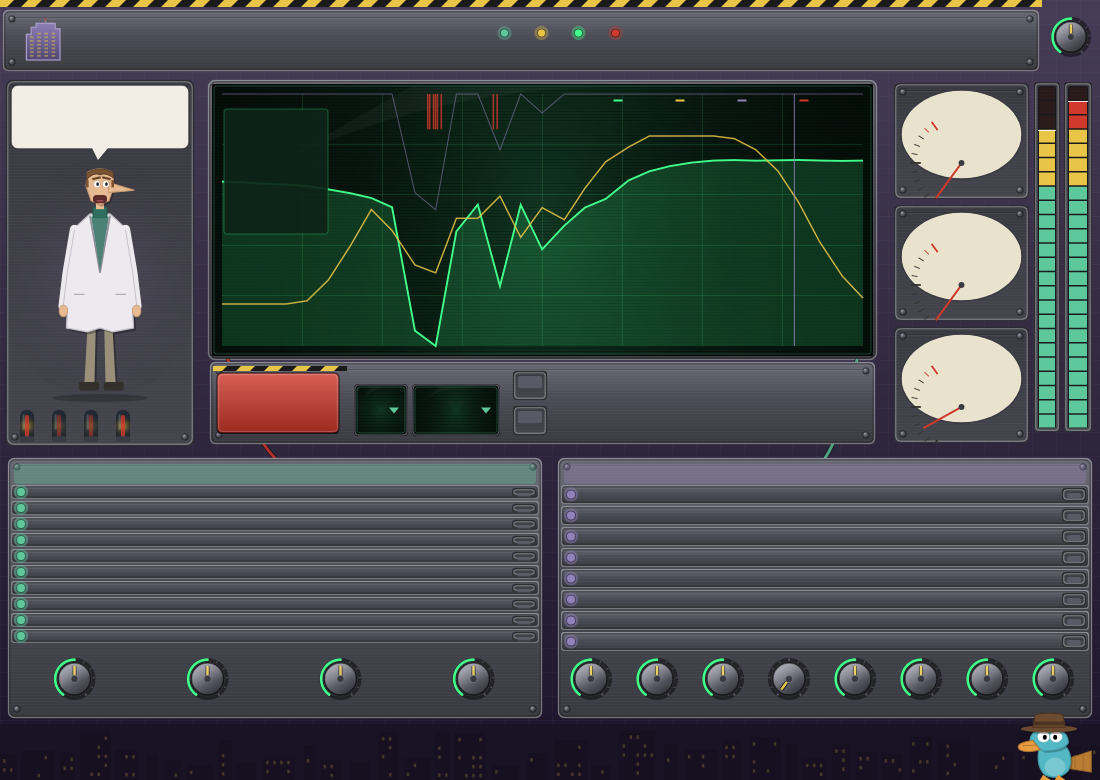
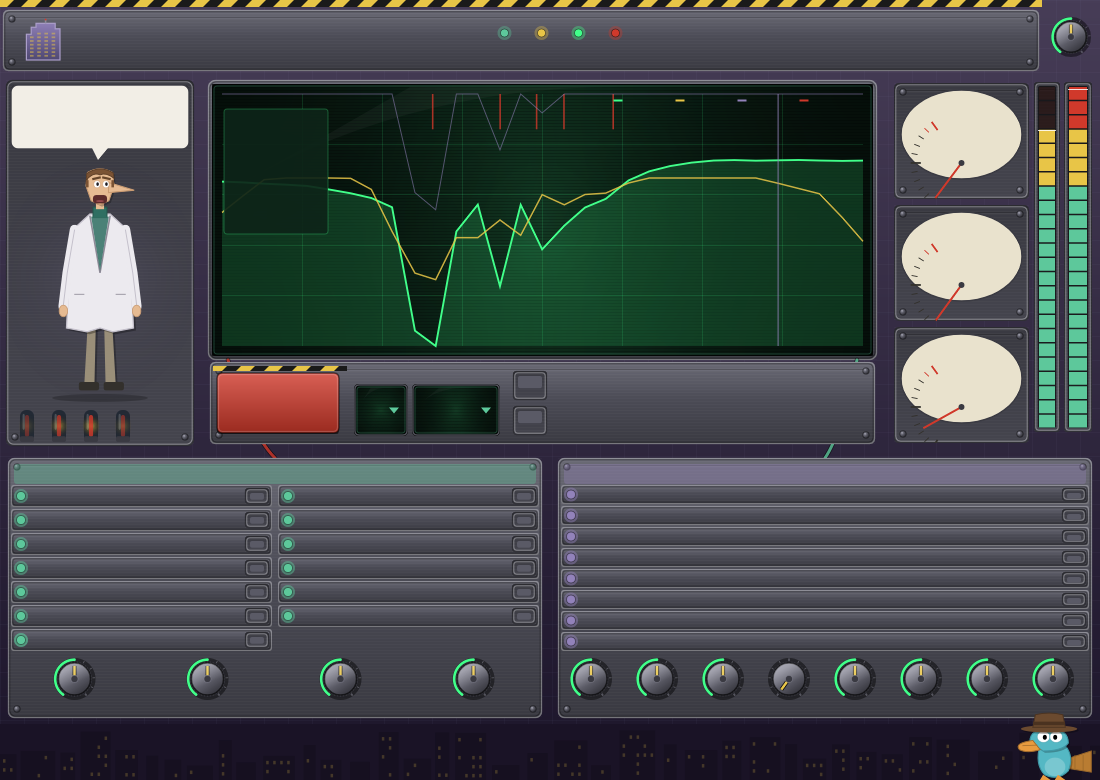
Two-column module rack, pointer-keyed activity lamps, v1.0.2 package
Thirteen cleanup modules no longer fit one column at a row height that
leaves room for the switch graphic, so a rack longer than nine entries
lays out in two.

The activity lamps were keyed by rack index, which meant inserting the
upward expander at position six silently moved the compressor's lamp
onto it and the de-esser's onto the surgical EQ. They hold pointers now,
and the upward expander gets its own.

Claude-Session: https://claude.ai/code/session_017txuhXmAwmafS4NN5xcFrV

diff --git a/Source/PluginEditor.cpp b/Source/PluginEditor.cpp
@@ -98,8 +98,8 @@ void ListenatorEditor::addTrim (TrimKnob& k, const char* paramId, const juce::St
     k.attach = std::make_unique<SliderAttach> (proc.getState(), paramId, k.slider);
 }
 
-void ListenatorEditor::addModule (juce::OwnedArray<ModuleStrip>& rack, const char* paramId,
-                                  const juce::String& name, juce::Colour accent)
+ModuleStrip* ListenatorEditor::addModule (juce::OwnedArray<ModuleStrip>& rack, const char* paramId,
+                                          const juce::String& name, juce::Colour accent)
 {
     auto* strip = new ModuleStrip (name, accent);
     rack.add (strip);
@@ -107,6 +107,7 @@ void ListenatorEditor::addModule (juce::OwnedArray<ModuleStrip>& rack, const cha
 
     moduleAttachments.add (new std::unique_ptr<ButtonAttach> (
         std::make_unique<ButtonAttach> (proc.getState(), paramId, strip->bypassButton)));
+    return strip;
 }
 
 void ListenatorEditor::buildRack()
@@ -117,10 +118,13 @@ void ListenatorEditor::buildRack()
     addModule (cleanupModules, pid::bpDeNoise,   "DE-NOISE",     mintGreen);
     addModule (cleanupModules, pid::bpDeVerb,    "DE-VERB",      mintGreen);
     addModule (cleanupModules, pid::bpGate,      "GATE",         mintGreen);
+    upwardStrip =
     addModule (cleanupModules, pid::bpUpward,    "UP-EXPANDER",  mintGreen);
     addModule (cleanupModules, pid::bpSurgical,  "SURGICAL EQ",  mintGreen);
     addModule (cleanupModules, pid::bpResonance, "RESONANCE",    mintGreen);
+    compStrip =
     addModule (cleanupModules, pid::bpComp,      "COMPRESSOR",   mintGreen);
+    deEssStrip =
     addModule (cleanupModules, pid::bpDeEss,     "DE-ESSER",     mintGreen);
     addModule (cleanupModules, pid::bpTone,      "TONE MATCH",   mintGreen);
     addModule (cleanupModules, pid::bpLimiter,   "LIMITER",      mintGreen);
@@ -153,12 +157,13 @@ void ListenatorEditor::timerCallback()
     pitchGauge.setValue (juce::jlimit (0.0f, 1.0f, hz / 800.0f),
                          hz > 1.0f ? juce::String ((int) hz) + " Hz" : "--");
 
-    // module activity lamps
-    if (! cleanupModules.isEmpty())
-    {
-        cleanupModules[6]->setActivity (juce::jlimit (0.0f, 1.0f, -gr / 12.0f));
-        cleanupModules[7]->setActivity (juce::jlimit (0.0f, 1.0f, -de / 8.0f));
-    }
+    // Module activity lamps, held by pointer rather than by rack index: an
+    // index-keyed lamp quietly starts reporting the wrong module the moment a
+    // stage is inserted above it.
+    if (compStrip  != nullptr) compStrip->setActivity  (juce::jlimit (0.0f, 1.0f, -gr / 12.0f));
+    if (deEssStrip != nullptr) deEssStrip->setActivity (juce::jlimit (0.0f, 1.0f, -de / 8.0f));
+    if (upwardStrip != nullptr)
+        upwardStrip->setActivity (juce::jlimit (0.0f, 1.0f, proc.getUpwardBoostDb() / 8.0f));
 
     const float lvl = juce::jlimit (0.0f, 1.0f, (proc.getOutputLevelDb() + 60.0f) / 60.0f);
     tubeGlow = tubeGlow * 0.8f + lvl * 0.2f;
@@ -233,11 +238,19 @@ void ListenatorEditor::resized()
     {
         auto strips = area.removeFromTop (area.getHeight() - 66);
         strips.removeFromTop (26);                    // header plate
-        const int n = juce::jmax (1, rack.size());
-        const int h = juce::jmin (24, strips.getHeight() / n);
 
-        for (auto* s : rack)
-            s->setBounds (strips.removeFromTop (h).reduced (3, 1));
+        // Two columns once the list is long enough that a single one would
+        // squeeze the rows below the height their switch graphic needs.
+        const int n    = juce::jmax (1, rack.size());
+        const int cols = n > 9 ? 2 : 1;
+        const int rows = (n + cols - 1) / cols;
+        const int h    = juce::jmin (24, strips.getHeight() / rows);
+        const int colW = strips.getWidth() / cols;
+
+        for (int i = 0; i < rack.size(); ++i)
+            rack[i]->setBounds (juce::Rectangle<int> (strips.getX() + (i / rows) * colW,
+                                                      strips.getY() + (i % rows) * h,
+                                                      colW, h).reduced (3, 1));
 
         // trim knob row underneath
         if (! trims.empty())

diff --git a/Source/PluginEditor.h b/Source/PluginEditor.h
@@ -33,8 +33,8 @@ private:
     };
 
     void addTrim (TrimKnob&, const char* paramId, const juce::String& text);
-    void addModule (juce::OwnedArray<ModuleStrip>&, const char* paramId,
-                    const juce::String& name, juce::Colour accent);
+    ModuleStrip* addModule (juce::OwnedArray<ModuleStrip>&, const char* paramId,
+                            const juce::String& name, juce::Colour accent);
 
     ListenatorProcessor& proc;
     DoofLookAndFeel lnf;
@@ -58,6 +58,9 @@ private:
     LevelStrip outputStrip { "OUT" };
 
     juce::OwnedArray<ModuleStrip> cleanupModules, effectsModules;
+    ModuleStrip* compStrip = nullptr;
+    ModuleStrip* deEssStrip = nullptr;
+    ModuleStrip* upwardStrip = nullptr;
     juce::OwnedArray<std::unique_ptr<ButtonAttach>> moduleAttachments;
 
     TrimKnob eqTrim, compTrim, deEssTrim, cleanTrim;
